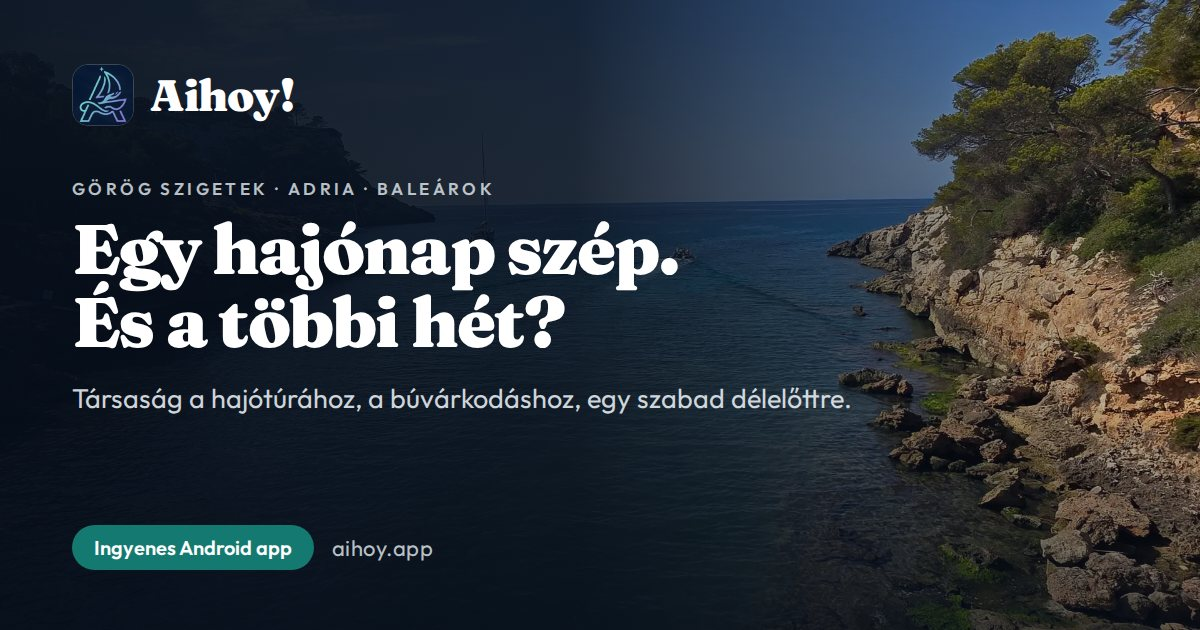
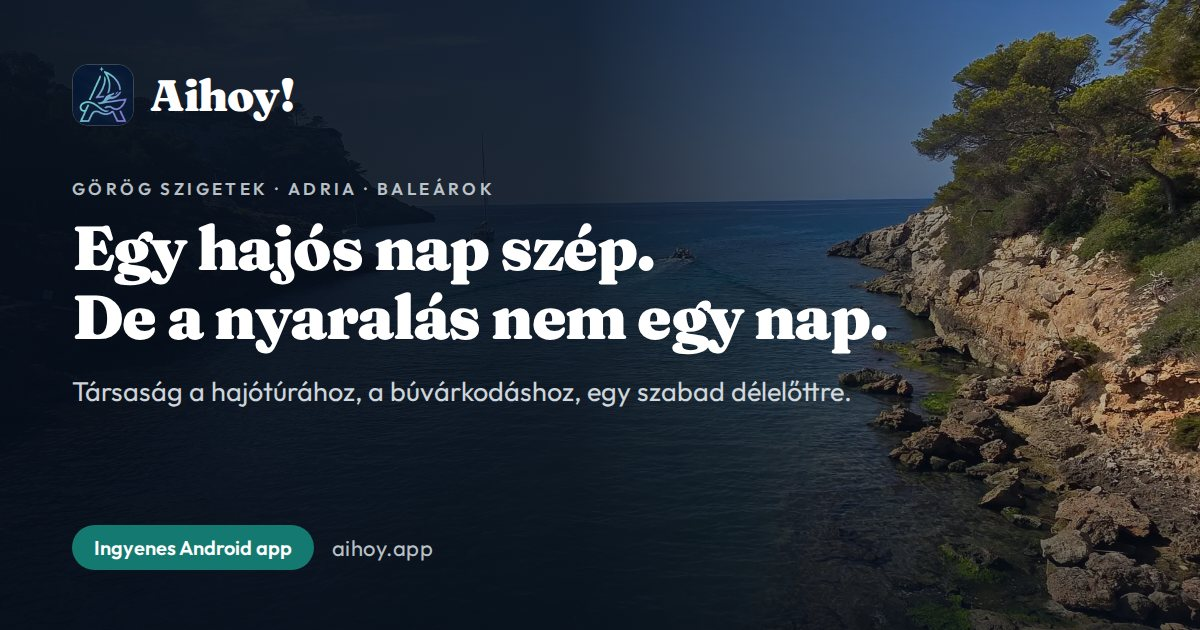
Add files via upload

Changed region(s): [[0.0617, 0.3317, 0.74, 0.573], [0.0617, 0.6032, 0.7092, 0.6635]]

diff --git a/hu/index.html b/hu/index.html
@@ -3,7 +3,7 @@
 <head>
 <meta charset="UTF-8">
 <meta name="viewport" content="width=device-width, initial-scale=1.0">
-<title>Aihoy! — Egy hajónap szép. És a többi hét? | Útitársak a közeledben</title>
+<title>Aihoy! — A nyaralás nem egy nap | Útitársak a közeledben</title>
 <meta name="description" content="Nem hajót ad, hanem társaságot: az Aihoy! megkeresi a közeledben, kivel oszthatod meg a hajótúrát, a búvárkodást, a kirándulást vagy csak egy szabad délelőttöt. Együtt az is belefér, ami kettőnek túl drága. Ingyenes Android app: görög szigetek, Adria, Baleárok.">
 <meta name="robots" content="index, follow">
 <link rel="canonical" href="https://aihoy.app/hu/">
@@ -16,7 +16,7 @@
 <meta name="theme-color" content="#0A1628">
 
 <meta property="og:site_name" content="Aihoy!">
-<meta property="og:title" content="Aihoy! — Egy hajónap szép. És a többi hét?">
+<meta property="og:title" content="Aihoy! — Egy hajós nap szép. De a nyaralás nem egy nap.">
 <meta property="og:description" content="Az app megkeresi a közeledben, kivel oszthatod meg a hajót, a búvártúrát, a kirándulást vagy egy szabad délelőttöt — és együtt az is belefér, ami kettőnek túl drága.">
 <meta property="og:type" content="website">
 <meta property="og:locale" content="hu_HU">
@@ -24,7 +24,7 @@
 <meta property="og:image" content="https://aihoy.app/og-image-hu.jpg">
 <meta property="og:image:width" content="1200">
 <meta property="og:image:height" content="630">
-<meta property="og:image:alt" content="Aihoy! — Egy hajónap szép. És a többi hét?">
+<meta property="og:image:alt" content="Aihoy! — Egy hajós nap szép. De a nyaralás nem egy nap.">
 <meta name="twitter:card" content="summary_large_image">
 <meta name="twitter:site" content="@aihoy_app">
 
@@ -146,8 +146,8 @@ img { max-width: 100%; }
 .hero-tagline { font-family: 'Fraunces', serif; font-size: 16px; font-style: italic; font-weight: 300; color: rgba(234,241,245,0.75); line-height: 1; padding-left: 12px; border-left: 1px solid var(--line-strong); }
 .hero-where { font-size: 12px; letter-spacing: 0.22em; text-transform: uppercase; font-weight: 600; color: rgba(234,241,245,0.8); margin-bottom: 18px; text-shadow: 0 1px 12px rgba(0,0,0,0.5); animation: fadeUp 0.8s 0.1s ease both; }
 h1 {
-  font-family: 'Fraunces', serif; font-size: clamp(42px, 7.4vw, 86px);
-  font-weight: 900; line-height: 1.02; letter-spacing: -0.025em; margin-bottom: 24px; max-width: 900px;
+  font-family: 'Fraunces', serif; font-size: clamp(38px, 5.9vw, 68px);
+  font-weight: 900; line-height: 1.12; letter-spacing: -0.025em; margin-bottom: 24px; max-width: 1020px;
   color: #fff; text-shadow: 0 2px 30px rgba(0,0,0,0.4);
   animation: fadeUp 0.8s 0.15s ease both;
 }
@@ -386,7 +386,7 @@ footer { text-align: center; padding: 48px 24px; border-top: 1px solid var(--lin
 @media (max-width: 700px) {
   .hero { padding: 76px 20px 56px; }
   .hero-media img { object-position: 50% 30%; }
-  h1 { font-size: clamp(34px, 9.4vw, 44px); margin-bottom: 18px; }
+  h1 { font-size: clamp(30px, 8.1vw, 38px); margin-bottom: 18px; }
   .hero-desc { font-size: 15.5px; line-height: 1.6; margin-bottom: 18px; }
   .hero-brand { margin-bottom: 18px; }
   .hero-tagline { display: none; }
@@ -475,7 +475,7 @@ footer { text-align: center; padding: 48px 24px; border-top: 1px solid var(--lin
   </div>
   <div class="hero-brand"><img class="logo-mark" src="/favicon-192.png" width="44" height="44" alt=""><span class="hero-wordmark">Aihoy!</span><span class="hero-tagline">The Vibematcher</span></div>
   <p class="hero-where">Görög szigetek · Adria · Baleárok</p>
-  <h1 id="hero-title">Egy hajónap szép.<br>És a többi hét?</h1>
+  <h1 id="hero-title">Egy hajós nap szép.<br>De a nyaralás nem&nbsp;egy&nbsp;nap.</h1>
   <p class="hero-desc" id="hero-desc">Az Aihoy! nem hajót ad, hanem társaságot: megmondod, mikor hol leszel és mihez lenne kedved, az app pedig megkeresi a közeledben, <strong>kivel jön össze</strong> — legyen az hajótúra, búvárkodás, kirándulás vagy csak egy szabad délelőtt.</p>
   <ul class="hero-points">
     <li><svg class="ic" aria-hidden="true"><use href="#i-map-pin"/></svg><span>A közeledben, akár pár száz méteren belül</span></li>

diff --git a/index.html b/index.html
@@ -3,7 +3,7 @@
 <head>
 <meta charset="UTF-8">
 <meta name="viewport" content="width=device-width, initial-scale=1.0">
-<title>Aihoy! — A boat day is lovely. What about the rest of the week? | Travel company nearby</title>
+<title>Aihoy! — A holiday is a week, not a day | Travel company nearby</title>
 <meta name="description" content="Aihoy! doesn't give you a boat, it gives you company: it finds who nearby you can share a boat trip, a dive, a hike — or just a free morning — with. Together, what's too pricey for two adds up. Free Android app for the Greek islands, the Adriatic and the Balearics.">
 <meta name="robots" content="index, follow">
 <link rel="canonical" href="https://aihoy.app/">
@@ -16,7 +16,7 @@
 <meta name="theme-color" content="#0A1628">
 
 <meta property="og:site_name" content="Aihoy!">
-<meta property="og:title" content="Aihoy! — A boat day is lovely. What about the rest of the week?">
+<meta property="og:title" content="Aihoy! — A boat day is lovely. A holiday is a week.">
 <meta property="og:description" content="The app finds who nearby you can share the boat, the dive trip, the hike or a free morning with — and together, what's too pricey for two adds up.">
 <meta property="og:type" content="website">
 <meta property="og:locale" content="en_GB">
@@ -24,7 +24,7 @@
 <meta property="og:image" content="https://aihoy.app/og-image-en.jpg">
 <meta property="og:image:width" content="1200">
 <meta property="og:image:height" content="630">
-<meta property="og:image:alt" content="Aihoy! — A boat day is lovely. What about the rest of the week?">
+<meta property="og:image:alt" content="Aihoy! — A boat day is lovely. A holiday is a week.">
 <meta name="twitter:card" content="summary_large_image">
 <meta name="twitter:site" content="@aihoy_app">
 
@@ -146,8 +146,8 @@ img { max-width: 100%; }
 .hero-tagline { font-family: 'Fraunces', serif; font-size: 16px; font-style: italic; font-weight: 300; color: rgba(234,241,245,0.75); line-height: 1; padding-left: 12px; border-left: 1px solid var(--line-strong); }
 .hero-where { font-size: 12px; letter-spacing: 0.22em; text-transform: uppercase; font-weight: 600; color: rgba(234,241,245,0.8); margin-bottom: 18px; text-shadow: 0 1px 12px rgba(0,0,0,0.5); animation: fadeUp 0.8s 0.1s ease both; }
 h1 {
-  font-family: 'Fraunces', serif; font-size: clamp(42px, 7.4vw, 86px);
-  font-weight: 900; line-height: 1.02; letter-spacing: -0.025em; margin-bottom: 24px; max-width: 900px;
+  font-family: 'Fraunces', serif; font-size: clamp(38px, 5.9vw, 68px);
+  font-weight: 900; line-height: 1.12; letter-spacing: -0.025em; margin-bottom: 24px; max-width: 1020px;
   color: #fff; text-shadow: 0 2px 30px rgba(0,0,0,0.4);
   animation: fadeUp 0.8s 0.15s ease both;
 }
@@ -386,7 +386,7 @@ footer { text-align: center; padding: 48px 24px; border-top: 1px solid var(--lin
 @media (max-width: 700px) {
   .hero { padding: 76px 20px 56px; }
   .hero-media img { object-position: 50% 30%; }
-  h1 { font-size: clamp(34px, 9.4vw, 44px); margin-bottom: 18px; }
+  h1 { font-size: clamp(30px, 8.1vw, 38px); margin-bottom: 18px; }
   .hero-desc { font-size: 15.5px; line-height: 1.6; margin-bottom: 18px; }
   .hero-brand { margin-bottom: 18px; }
   .hero-tagline { display: none; }
@@ -491,7 +491,7 @@ footer { text-align: center; padding: 48px 24px; border-top: 1px solid var(--lin
   </div>
   <div class="hero-brand"><img class="logo-mark" src="/favicon-192.png" width="44" height="44" alt=""><span class="hero-wordmark">Aihoy!</span><span class="hero-tagline">The Vibematcher</span></div>
   <p class="hero-where">Greek islands · Adriatic · Balearics</p>
-  <h1 id="hero-title">A boat day is lovely.<br>What about the rest?</h1>
+  <h1 id="hero-title">A boat day is lovely.<br>A holiday is a week.</h1>
   <p class="hero-desc" id="hero-desc">Aihoy! doesn't give you a boat, it gives you company: say when and where you'll be and what you're up for, and the app finds <strong>who nearby it works out with</strong> — a boat trip, a dive, a hike, or just one free morning.</p>
   <ul class="hero-points">
     <li><svg class="ic" aria-hidden="true"><use href="#i-map-pin"/></svg><span>Nearby — down to a few hundred metres</span></li>
